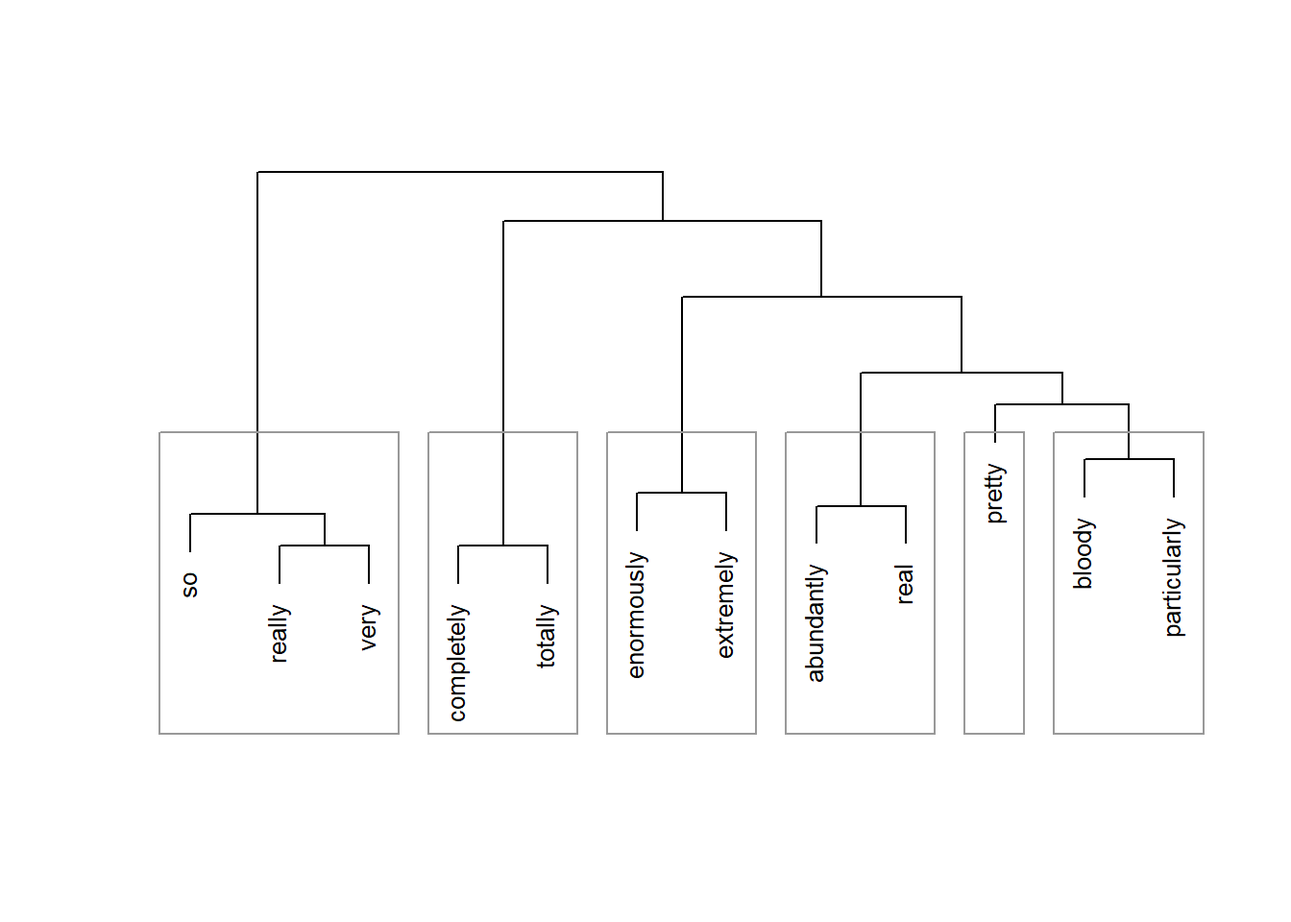
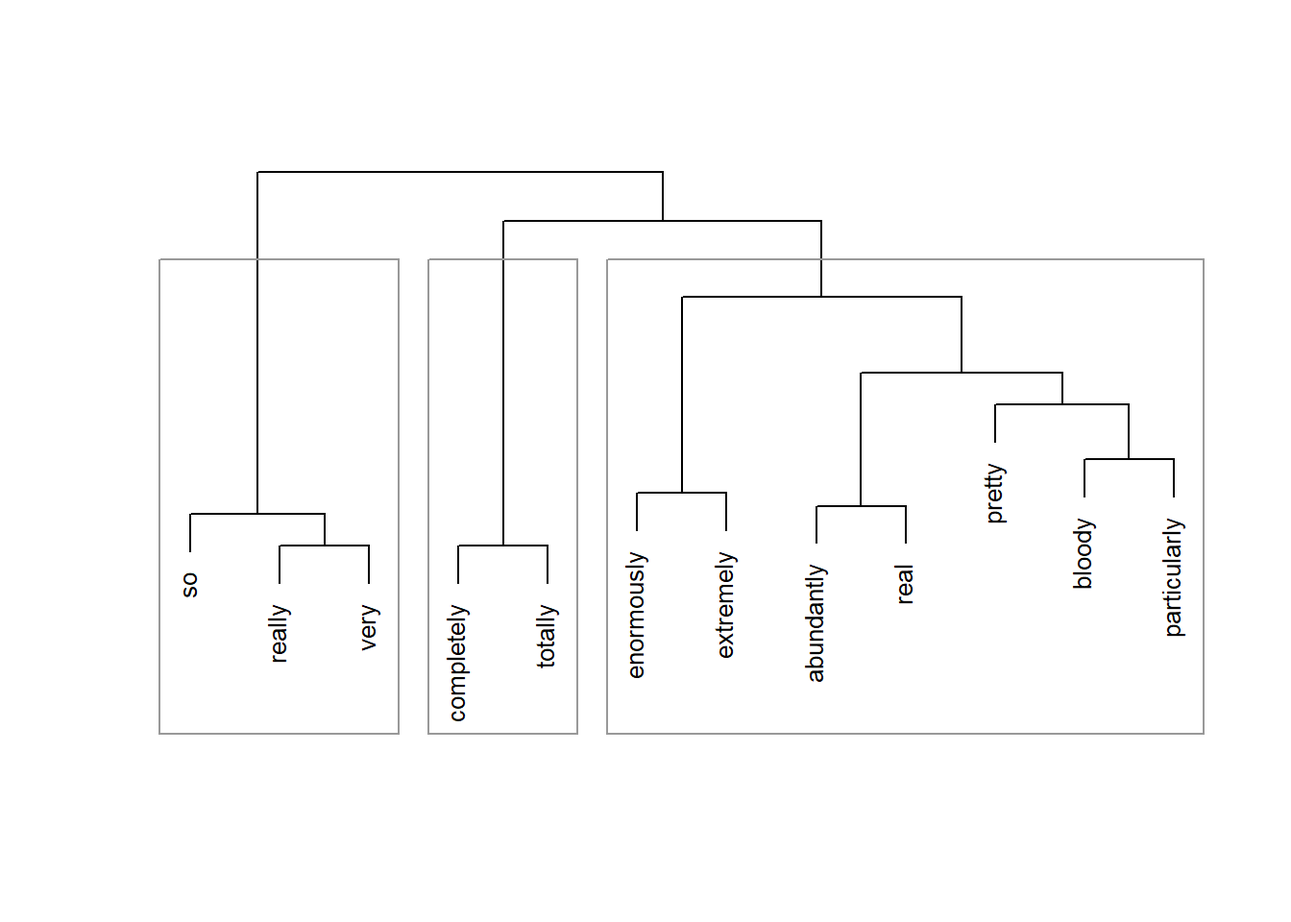
svm update

Changed region(s): [[0.7188, 0.4688, 0.75, 0.5]]

diff --git a/docs/svm.html b/docs/svm.html
@@ -450,12 +450,13 @@ div.tocify {
 <p><img src="https://slcladal.github.io/images/uq1.jpg" width="100%" /></p>
 <div id="introduction" class="section level1 unnumbered">
 <h1 class="unnumbered">Introduction</h1>
-<p>This tutorial introduces Semantic Vector Space (SVM) modeling R.
-Semantic vector space models, also known as distributional semantic
-models, are a type of machine learning model that represent the meaning
-of words or phrases as high-dimensional vectors in a mathematical space.
-These models are designed to capture the semantic relationships between
-words based on the distribution of their occurrences in large text
+<p>This tutorial introduces Semantic Vector Space (SVM) modeling R.<a
+href="#fn1" class="footnote-ref" id="fnref1"><sup>1</sup></a> Semantic
+vector space models, also known as distributional semantic models, are a
+type of machine learning model that represent the meaning of words or
+phrases as high-dimensional vectors in a mathematical space. These
+models are designed to capture the semantic relationships between words
+based on the distribution of their occurrences in large text
 corpora.</p>
 <p>In semantic vector space models, words or phrases are represented as
 vectors in a high-dimensional space, where the distance between two
@@ -591,7 +592,7 @@ library(flextable)
 # load data
 vsmdata &lt;- read.delim(&quot;https://slcladal.github.io/data/vsmdata.txt&quot;,
                       sep = &quot;\t&quot;, header = T)</code></pre>
-<template id="5813bf74-3f0a-494e-80d0-4bae9a351cfb"><style>
+<template id="4eb13f28-edf5-4a3d-a403-c2ed30ea5ef5"><style>
 .tabwid table{
   border-spacing:0px !important;
   border-collapse:collapse;
@@ -629,11 +630,11 @@ background-color: transparent;
 .katex-display {
     margin: 0 0 !important;
 }
-</style><div class="tabwid"><style>.cl-0a817b5c{table-layout:auto;width:75%;}.cl-0a74bc50{font-family:'Arial';font-size:12pt;font-weight:bold;font-style:normal;text-decoration:none;color:rgba(0, 0, 0, 1.00);background-color:transparent;}.cl-0a74bc5a{font-family:'Arial';font-size:12pt;font-weight:normal;font-style:normal;text-decoration:none;color:rgba(0, 0, 0, 1.00);background-color:transparent;}.cl-0a79b03e{margin:0;text-align:center;border-bottom: 0 solid rgba(0, 0, 0, 1.00);border-top: 0 solid rgba(0, 0, 0, 1.00);border-left: 0 solid rgba(0, 0, 0, 1.00);border-right: 0 solid rgba(0, 0, 0, 1.00);padding-bottom:5pt;padding-top:5pt;padding-left:5pt;padding-right:5pt;line-height: 1;background-color:transparent;}.cl-0a79d1b8{background-color:rgba(207, 207, 207, 1.00);vertical-align: middle;border-bottom: 1pt solid rgba(102, 102, 102, 1.00);border-top: 1pt solid rgba(102, 102, 102, 1.00);border-left: 1pt solid rgba(102, 102, 102, 1.00);border-right: 0 solid rgba(0, 0, 0, 1.00);margin-bottom:0;margin-top:0;margin-left:0;margin-right:0;}.cl-0a79d1c2{background-color:rgba(207, 207, 207, 1.00);vertical-align: middle;border-bottom: 1pt solid rgba(102, 102, 102, 1.00);border-top: 1pt solid rgba(102, 102, 102, 1.00);border-left: 0 solid rgba(0, 0, 0, 1.00);border-right: 1pt solid rgba(102, 102, 102, 1.00);margin-bottom:0;margin-top:0;margin-left:0;margin-right:0;}.cl-0a79d1c3{background-color:rgba(239, 239, 239, 1.00);vertical-align: middle;border-bottom: 0 solid rgba(0, 0, 0, 1.00);border-top: 0 solid rgba(0, 0, 0, 1.00);border-left: 1pt solid rgba(102, 102, 102, 1.00);border-right: 0 solid rgba(0, 0, 0, 1.00);margin-bottom:0;margin-top:0;margin-left:0;margin-right:0;}.cl-0a79d1cc{background-color:rgba(239, 239, 239, 1.00);vertical-align: middle;border-bottom: 0 solid rgba(0, 0, 0, 1.00);border-top: 0 solid rgba(0, 0, 0, 1.00);border-left: 0 solid rgba(0, 0, 0, 1.00);border-right: 1pt solid rgba(102, 102, 102, 1.00);margin-bottom:0;margin-top:0;margin-left:0;margin-right:0;}.cl-0a79d1cd{background-color:transparent;vertical-align: middle;border-bottom: 0 solid rgba(0, 0, 0, 1.00);border-top: 0 solid rgba(0, 0, 0, 1.00);border-left: 1pt solid rgba(102, 102, 102, 1.00);border-right: 0 solid rgba(0, 0, 0, 1.00);margin-bottom:0;margin-top:0;margin-left:0;margin-right:0;}.cl-0a79d1ce{background-color:transparent;vertical-align: middle;border-bottom: 0 solid rgba(0, 0, 0, 1.00);border-top: 0 solid rgba(0, 0, 0, 1.00);border-left: 0 solid rgba(0, 0, 0, 1.00);border-right: 1pt solid rgba(102, 102, 102, 1.00);margin-bottom:0;margin-top:0;margin-left:0;margin-right:0;}.cl-0a79d1d6{background-color:transparent;vertical-align: middle;border-bottom: 1pt solid rgba(102, 102, 102, 1.00);border-top: 0 solid rgba(0, 0, 0, 1.00);border-left: 1pt solid rgba(102, 102, 102, 1.00);border-right: 0 solid rgba(0, 0, 0, 1.00);margin-bottom:0;margin-top:0;margin-left:0;margin-right:0;}.cl-0a79d1d7{background-color:transparent;vertical-align: middle;border-bottom: 1pt solid rgba(102, 102, 102, 1.00);border-top: 0 solid rgba(0, 0, 0, 1.00);border-left: 0 solid rgba(0, 0, 0, 1.00);border-right: 1pt solid rgba(102, 102, 102, 1.00);margin-bottom:0;margin-top:0;margin-left:0;margin-right:0;}</style><table data-quarto-disable-processing='true' class='cl-0a817b5c'><thead><tr style="overflow-wrap:break-word;"><th class="cl-0a79d1b8"><p class="cl-0a79b03e"><span class="cl-0a74bc50">Amplifier</span></p></th><th class="cl-0a79d1c2"><p class="cl-0a79b03e"><span class="cl-0a74bc50">Adjective</span></p></th></tr></thead><tbody><tr style="overflow-wrap:break-word;"><td class="cl-0a79d1c3"><p class="cl-0a79b03e"><span class="cl-0a74bc5a">0</span></p></td><td class="cl-0a79d1cc"><p class="cl-0a79b03e"><span class="cl-0a74bc5a">serious</span></p></td></tr><tr style="overflow-wrap:break-word;"><td class="cl-0a79d1cd"><p class="cl-0a79b03e"><span class="cl-0a74bc5a">0</span></p></td><td class="cl-0a79d1ce"><p class="cl-0a79b03e"><span class="cl-0a74bc5a">sure</span></p></td></tr><tr style="overflow-wrap:break-word;"><td class="cl-0a79d1c3"><p class="cl-0a79b03e"><span class="cl-0a74bc5a">so</span></p></td><td class="cl-0a79d1cc"><p class="cl-0a79b03e"><span class="cl-0a74bc5a">many</span></p></td></tr><tr style="overflow-wrap:break-word;"><td class="cl-0a79d1cd"><p class="cl-0a79b03e"><span class="cl-0a74bc5a">0</span></p></td><td class="cl-0a79d1ce"><p class="cl-0a79b03e"><span class="cl-0a74bc5a">many</span></p></td></tr><tr style="overflow-wrap:break-word;"><td class="cl-0a79d1c3"><p class="cl-0a79b03e"><span class="cl-0a74bc5a">0</span></p></td><td class="cl-0a79d1cc"><p class="cl-0a79b03e"><span class="cl-0a74bc5a">good</span></p></td></tr><tr style="overflow-wrap:break-word;"><td class="cl-0a79d1cd"><p class="cl-0a79b03e"><span class="cl-0a74bc5a">0</span></p></td><td class="cl-0a79d1ce"><p class="cl-0a79b03e"><span class="cl-0a74bc5a">much</span></p></td></tr><tr style="overflow-wrap:break-word;"><td class="cl-0a79d1c3"><p class="cl-0a79b03e"><span class="cl-0a74bc5a">0</span></p></td><td class="cl-0a79d1cc"><p class="cl-0a79b03e"><span class="cl-0a74bc5a">good</span></p></td></tr><tr style="overflow-wrap:break-word;"><td class="cl-0a79d1cd"><p class="cl-0a79b03e"><span class="cl-0a74bc5a">0</span></p></td><td class="cl-0a79d1ce"><p class="cl-0a79b03e"><span class="cl-0a74bc5a">good</span></p></td></tr><tr style="overflow-wrap:break-word;"><td class="cl-0a79d1c3"><p class="cl-0a79b03e"><span class="cl-0a74bc5a">0</span></p></td><td class="cl-0a79d1cc"><p class="cl-0a79b03e"><span class="cl-0a74bc5a">last</span></p></td></tr><tr style="overflow-wrap:break-word;"><td class="cl-0a79d1d6"><p class="cl-0a79b03e"><span class="cl-0a74bc5a">0</span></p></td><td class="cl-0a79d1d7"><p class="cl-0a79b03e"><span class="cl-0a74bc5a">nice</span></p></td></tr></tbody></table></div></template>
-<div class="flextable-shadow-host" id="6eb7319b-02a6-43e4-a2e7-5c1891d9f2fe"></div>
+</style><div class="tabwid"><style>.cl-df718bcc{table-layout:auto;width:75%;}.cl-df64853a{font-family:'Arial';font-size:12pt;font-weight:bold;font-style:normal;text-decoration:none;color:rgba(0, 0, 0, 1.00);background-color:transparent;}.cl-df648544{font-family:'Arial';font-size:12pt;font-weight:normal;font-style:normal;text-decoration:none;color:rgba(0, 0, 0, 1.00);background-color:transparent;}.cl-df692c70{margin:0;text-align:center;border-bottom: 0 solid rgba(0, 0, 0, 1.00);border-top: 0 solid rgba(0, 0, 0, 1.00);border-left: 0 solid rgba(0, 0, 0, 1.00);border-right: 0 solid rgba(0, 0, 0, 1.00);padding-bottom:5pt;padding-top:5pt;padding-left:5pt;padding-right:5pt;line-height: 1;background-color:transparent;}.cl-df694d5e{background-color:rgba(207, 207, 207, 1.00);vertical-align: middle;border-bottom: 1pt solid rgba(102, 102, 102, 1.00);border-top: 1pt solid rgba(102, 102, 102, 1.00);border-left: 1pt solid rgba(102, 102, 102, 1.00);border-right: 0 solid rgba(0, 0, 0, 1.00);margin-bottom:0;margin-top:0;margin-left:0;margin-right:0;}.cl-df694d68{background-color:rgba(207, 207, 207, 1.00);vertical-align: middle;border-bottom: 1pt solid rgba(102, 102, 102, 1.00);border-top: 1pt solid rgba(102, 102, 102, 1.00);border-left: 0 solid rgba(0, 0, 0, 1.00);border-right: 1pt solid rgba(102, 102, 102, 1.00);margin-bottom:0;margin-top:0;margin-left:0;margin-right:0;}.cl-df694d72{background-color:rgba(239, 239, 239, 1.00);vertical-align: middle;border-bottom: 0 solid rgba(0, 0, 0, 1.00);border-top: 0 solid rgba(0, 0, 0, 1.00);border-left: 1pt solid rgba(102, 102, 102, 1.00);border-right: 0 solid rgba(0, 0, 0, 1.00);margin-bottom:0;margin-top:0;margin-left:0;margin-right:0;}.cl-df694d73{background-color:rgba(239, 239, 239, 1.00);vertical-align: middle;border-bottom: 0 solid rgba(0, 0, 0, 1.00);border-top: 0 solid rgba(0, 0, 0, 1.00);border-left: 0 solid rgba(0, 0, 0, 1.00);border-right: 1pt solid rgba(102, 102, 102, 1.00);margin-bottom:0;margin-top:0;margin-left:0;margin-right:0;}.cl-df694d74{background-color:transparent;vertical-align: middle;border-bottom: 0 solid rgba(0, 0, 0, 1.00);border-top: 0 solid rgba(0, 0, 0, 1.00);border-left: 1pt solid rgba(102, 102, 102, 1.00);border-right: 0 solid rgba(0, 0, 0, 1.00);margin-bottom:0;margin-top:0;margin-left:0;margin-right:0;}.cl-df694d75{background-color:transparent;vertical-align: middle;border-bottom: 0 solid rgba(0, 0, 0, 1.00);border-top: 0 solid rgba(0, 0, 0, 1.00);border-left: 0 solid rgba(0, 0, 0, 1.00);border-right: 1pt solid rgba(102, 102, 102, 1.00);margin-bottom:0;margin-top:0;margin-left:0;margin-right:0;}.cl-df694d7c{background-color:transparent;vertical-align: middle;border-bottom: 1pt solid rgba(102, 102, 102, 1.00);border-top: 0 solid rgba(0, 0, 0, 1.00);border-left: 1pt solid rgba(102, 102, 102, 1.00);border-right: 0 solid rgba(0, 0, 0, 1.00);margin-bottom:0;margin-top:0;margin-left:0;margin-right:0;}.cl-df694d7d{background-color:transparent;vertical-align: middle;border-bottom: 1pt solid rgba(102, 102, 102, 1.00);border-top: 0 solid rgba(0, 0, 0, 1.00);border-left: 0 solid rgba(0, 0, 0, 1.00);border-right: 1pt solid rgba(102, 102, 102, 1.00);margin-bottom:0;margin-top:0;margin-left:0;margin-right:0;}</style><table data-quarto-disable-processing='true' class='cl-df718bcc'><thead><tr style="overflow-wrap:break-word;"><th class="cl-df694d5e"><p class="cl-df692c70"><span class="cl-df64853a">Amplifier</span></p></th><th class="cl-df694d68"><p class="cl-df692c70"><span class="cl-df64853a">Adjective</span></p></th></tr></thead><tbody><tr style="overflow-wrap:break-word;"><td class="cl-df694d72"><p class="cl-df692c70"><span class="cl-df648544">0</span></p></td><td class="cl-df694d73"><p class="cl-df692c70"><span class="cl-df648544">serious</span></p></td></tr><tr style="overflow-wrap:break-word;"><td class="cl-df694d74"><p class="cl-df692c70"><span class="cl-df648544">0</span></p></td><td class="cl-df694d75"><p class="cl-df692c70"><span class="cl-df648544">sure</span></p></td></tr><tr style="overflow-wrap:break-word;"><td class="cl-df694d72"><p class="cl-df692c70"><span class="cl-df648544">so</span></p></td><td class="cl-df694d73"><p class="cl-df692c70"><span class="cl-df648544">many</span></p></td></tr><tr style="overflow-wrap:break-word;"><td class="cl-df694d74"><p class="cl-df692c70"><span class="cl-df648544">0</span></p></td><td class="cl-df694d75"><p class="cl-df692c70"><span class="cl-df648544">many</span></p></td></tr><tr style="overflow-wrap:break-word;"><td class="cl-df694d72"><p class="cl-df692c70"><span class="cl-df648544">0</span></p></td><td class="cl-df694d73"><p class="cl-df692c70"><span class="cl-df648544">good</span></p></td></tr><tr style="overflow-wrap:break-word;"><td class="cl-df694d74"><p class="cl-df692c70"><span class="cl-df648544">0</span></p></td><td class="cl-df694d75"><p class="cl-df692c70"><span class="cl-df648544">much</span></p></td></tr><tr style="overflow-wrap:break-word;"><td class="cl-df694d72"><p class="cl-df692c70"><span class="cl-df648544">0</span></p></td><td class="cl-df694d73"><p class="cl-df692c70"><span class="cl-df648544">good</span></p></td></tr><tr style="overflow-wrap:break-word;"><td class="cl-df694d74"><p class="cl-df692c70"><span class="cl-df648544">0</span></p></td><td class="cl-df694d75"><p class="cl-df692c70"><span class="cl-df648544">good</span></p></td></tr><tr style="overflow-wrap:break-word;"><td class="cl-df694d72"><p class="cl-df692c70"><span class="cl-df648544">0</span></p></td><td class="cl-df694d73"><p class="cl-df692c70"><span class="cl-df648544">last</span></p></td></tr><tr style="overflow-wrap:break-word;"><td class="cl-df694d7c"><p class="cl-df692c70"><span class="cl-df648544">0</span></p></td><td class="cl-df694d7d"><p class="cl-df692c70"><span class="cl-df648544">nice</span></p></td></tr></tbody></table></div></template>
+<div class="flextable-shadow-host" id="b89df935-f471-409c-9e68-bb9ffdf6d37b"></div>
 <script>
-var dest = document.getElementById("6eb7319b-02a6-43e4-a2e7-5c1891d9f2fe");
-var template = document.getElementById("5813bf74-3f0a-494e-80d0-4bae9a351cfb");
+var dest = document.getElementById("b89df935-f471-409c-9e68-bb9ffdf6d37b");
+var template = document.getElementById("4eb13f28-edf5-4a3d-a403-c2ed30ea5ef5");
 var fantome = dest.attachShadow({mode: 'open'});
 var templateContent = template.content;
 fantome.appendChild(templateContent);
@@ -656,7 +657,7 @@ vsmdata_simp &lt;- vsmdata %&gt;%
   dplyr::mutate(Adjective = ifelse(AdjFreq &gt; 10, Adjective, &quot;other&quot;)) %&gt;%
   dplyr::filter(Adjective != &quot;other&quot;) %&gt;%
   dplyr::select(-AdjFreq)</code></pre>
-<template id="ea97b912-a577-4081-8923-ce22fcaae88d"><style>
+<template id="021b1ca0-9bf6-4e43-a76f-e34c2600c8d8"><style>
 .tabwid table{
   border-spacing:0px !important;
   border-collapse:collapse;
@@ -694,11 +695,11 @@ background-color: transparent;
 .katex-display {
     margin: 0 0 !important;
 }
-</style><div class="tabwid"><style>.cl-0ab96c74{table-layout:auto;width:75%;}.cl-0aaaf27a{font-family:'Arial';font-size:12pt;font-weight:bold;font-style:normal;text-decoration:none;color:rgba(0, 0, 0, 1.00);background-color:transparent;}.cl-0aaaf284{font-family:'Arial';font-size:12pt;font-weight:normal;font-style:normal;text-decoration:none;color:rgba(0, 0, 0, 1.00);background-color:transparent;}.cl-0aafda1a{margin:0;text-align:center;border-bottom: 0 solid rgba(0, 0, 0, 1.00);border-top: 0 solid rgba(0, 0, 0, 1.00);border-left: 0 solid rgba(0, 0, 0, 1.00);border-right: 0 solid rgba(0, 0, 0, 1.00);padding-bottom:5pt;padding-top:5pt;padding-left:5pt;padding-right:5pt;line-height: 1;background-color:transparent;}.cl-0ab01070{background-color:rgba(207, 207, 207, 1.00);vertical-align: middle;border-bottom: 1pt solid rgba(102, 102, 102, 1.00);border-top: 1pt solid rgba(102, 102, 102, 1.00);border-left: 1pt solid rgba(102, 102, 102, 1.00);border-right: 0 solid rgba(0, 0, 0, 1.00);margin-bottom:0;margin-top:0;margin-left:0;margin-right:0;}.cl-0ab01084{background-color:rgba(207, 207, 207, 1.00);vertical-align: middle;border-bottom: 1pt solid rgba(102, 102, 102, 1.00);border-top: 1pt solid rgba(102, 102, 102, 1.00);border-left: 0 solid rgba(0, 0, 0, 1.00);border-right: 1pt solid rgba(102, 102, 102, 1.00);margin-bottom:0;margin-top:0;margin-left:0;margin-right:0;}.cl-0ab01085{background-color:rgba(239, 239, 239, 1.00);vertical-align: middle;border-bottom: 0 solid rgba(0, 0, 0, 1.00);border-top: 0 solid rgba(0, 0, 0, 1.00);border-left: 1pt solid rgba(102, 102, 102, 1.00);border-right: 0 solid rgba(0, 0, 0, 1.00);margin-bottom:0;margin-top:0;margin-left:0;margin-right:0;}.cl-0ab01086{background-color:rgba(239, 239, 239, 1.00);vertical-align: middle;border-bottom: 0 solid rgba(0, 0, 0, 1.00);border-top: 0 solid rgba(0, 0, 0, 1.00);border-left: 0 solid rgba(0, 0, 0, 1.00);border-right: 1pt solid rgba(102, 102, 102, 1.00);margin-bottom:0;margin-top:0;margin-left:0;margin-right:0;}.cl-0ab01087{background-color:transparent;vertical-align: middle;border-bottom: 0 solid rgba(0, 0, 0, 1.00);border-top: 0 solid rgba(0, 0, 0, 1.00);border-left: 1pt solid rgba(102, 102, 102, 1.00);border-right: 0 solid rgba(0, 0, 0, 1.00);margin-bottom:0;margin-top:0;margin-left:0;margin-right:0;}.cl-0ab0108e{background-color:transparent;vertical-align: middle;border-bottom: 0 solid rgba(0, 0, 0, 1.00);border-top: 0 solid rgba(0, 0, 0, 1.00);border-left: 0 solid rgba(0, 0, 0, 1.00);border-right: 1pt solid rgba(102, 102, 102, 1.00);margin-bottom:0;margin-top:0;margin-left:0;margin-right:0;}.cl-0ab0108f{background-color:transparent;vertical-align: middle;border-bottom: 1pt solid rgba(102, 102, 102, 1.00);border-top: 0 solid rgba(0, 0, 0, 1.00);border-left: 1pt solid rgba(102, 102, 102, 1.00);border-right: 0 solid rgba(0, 0, 0, 1.00);margin-bottom:0;margin-top:0;margin-left:0;margin-right:0;}.cl-0ab01090{background-color:transparent;vertical-align: middle;border-bottom: 1pt solid rgba(102, 102, 102, 1.00);border-top: 0 solid rgba(0, 0, 0, 1.00);border-left: 0 solid rgba(0, 0, 0, 1.00);border-right: 1pt solid rgba(102, 102, 102, 1.00);margin-bottom:0;margin-top:0;margin-left:0;margin-right:0;}</style><table data-quarto-disable-processing='true' class='cl-0ab96c74'><thead><tr style="overflow-wrap:break-word;"><th class="cl-0ab01070"><p class="cl-0aafda1a"><span class="cl-0aaaf27a">Amplifier</span></p></th><th class="cl-0ab01084"><p class="cl-0aafda1a"><span class="cl-0aaaf27a">Adjective</span></p></th></tr></thead><tbody><tr style="overflow-wrap:break-word;"><td class="cl-0ab01085"><p class="cl-0aafda1a"><span class="cl-0aaaf284">very</span></p></td><td class="cl-0ab01086"><p class="cl-0aafda1a"><span class="cl-0aaaf284">good</span></p></td></tr><tr style="overflow-wrap:break-word;"><td class="cl-0ab01087"><p class="cl-0aafda1a"><span class="cl-0aaaf284">really</span></p></td><td class="cl-0ab0108e"><p class="cl-0aafda1a"><span class="cl-0aaaf284">nice</span></p></td></tr><tr style="overflow-wrap:break-word;"><td class="cl-0ab01085"><p class="cl-0aafda1a"><span class="cl-0aaaf284">really</span></p></td><td class="cl-0ab01086"><p class="cl-0aafda1a"><span class="cl-0aaaf284">good</span></p></td></tr><tr style="overflow-wrap:break-word;"><td class="cl-0ab01087"><p class="cl-0aafda1a"><span class="cl-0aaaf284">really</span></p></td><td class="cl-0ab0108e"><p class="cl-0aafda1a"><span class="cl-0aaaf284">bad</span></p></td></tr><tr style="overflow-wrap:break-word;"><td class="cl-0ab01085"><p class="cl-0aafda1a"><span class="cl-0aaaf284">very</span></p></td><td class="cl-0ab01086"><p class="cl-0aafda1a"><span class="cl-0aaaf284">nice</span></p></td></tr><tr style="overflow-wrap:break-word;"><td class="cl-0ab01087"><p class="cl-0aafda1a"><span class="cl-0aaaf284">really</span></p></td><td class="cl-0ab0108e"><p class="cl-0aafda1a"><span class="cl-0aaaf284">nice</span></p></td></tr><tr style="overflow-wrap:break-word;"><td class="cl-0ab01085"><p class="cl-0aafda1a"><span class="cl-0aaaf284">very</span></p></td><td class="cl-0ab01086"><p class="cl-0aafda1a"><span class="cl-0aaaf284">hard</span></p></td></tr><tr style="overflow-wrap:break-word;"><td class="cl-0ab01087"><p class="cl-0aafda1a"><span class="cl-0aaaf284">bloody</span></p></td><td class="cl-0ab0108e"><p class="cl-0aafda1a"><span class="cl-0aaaf284">good</span></p></td></tr><tr style="overflow-wrap:break-word;"><td class="cl-0ab01085"><p class="cl-0aafda1a"><span class="cl-0aaaf284">really</span></p></td><td class="cl-0ab01086"><p class="cl-0aafda1a"><span class="cl-0aaaf284">nice</span></p></td></tr><tr style="overflow-wrap:break-word;"><td class="cl-0ab0108f"><p class="cl-0aafda1a"><span class="cl-0aaaf284">really</span></p></td><td class="cl-0ab01090"><p class="cl-0aafda1a"><span class="cl-0aaaf284">good</span></p></td></tr></tbody></table></div></template>
-<div class="flextable-shadow-host" id="9b4c7921-8ee2-42e5-85c7-9766c885ec6a"></div>
+</style><div class="tabwid"><style>.cl-dfa59980{table-layout:auto;width:75%;}.cl-df992100{font-family:'Arial';font-size:12pt;font-weight:bold;font-style:normal;text-decoration:none;color:rgba(0, 0, 0, 1.00);background-color:transparent;}.cl-df99210a{font-family:'Arial';font-size:12pt;font-weight:normal;font-style:normal;text-decoration:none;color:rgba(0, 0, 0, 1.00);background-color:transparent;}.cl-df9de488{margin:0;text-align:center;border-bottom: 0 solid rgba(0, 0, 0, 1.00);border-top: 0 solid rgba(0, 0, 0, 1.00);border-left: 0 solid rgba(0, 0, 0, 1.00);border-right: 0 solid rgba(0, 0, 0, 1.00);padding-bottom:5pt;padding-top:5pt;padding-left:5pt;padding-right:5pt;line-height: 1;background-color:transparent;}.cl-df9e0602{background-color:rgba(207, 207, 207, 1.00);vertical-align: middle;border-bottom: 1pt solid rgba(102, 102, 102, 1.00);border-top: 1pt solid rgba(102, 102, 102, 1.00);border-left: 1pt solid rgba(102, 102, 102, 1.00);border-right: 0 solid rgba(0, 0, 0, 1.00);margin-bottom:0;margin-top:0;margin-left:0;margin-right:0;}.cl-df9e0603{background-color:rgba(207, 207, 207, 1.00);vertical-align: middle;border-bottom: 1pt solid rgba(102, 102, 102, 1.00);border-top: 1pt solid rgba(102, 102, 102, 1.00);border-left: 0 solid rgba(0, 0, 0, 1.00);border-right: 1pt solid rgba(102, 102, 102, 1.00);margin-bottom:0;margin-top:0;margin-left:0;margin-right:0;}.cl-df9e060c{background-color:rgba(239, 239, 239, 1.00);vertical-align: middle;border-bottom: 0 solid rgba(0, 0, 0, 1.00);border-top: 0 solid rgba(0, 0, 0, 1.00);border-left: 1pt solid rgba(102, 102, 102, 1.00);border-right: 0 solid rgba(0, 0, 0, 1.00);margin-bottom:0;margin-top:0;margin-left:0;margin-right:0;}.cl-df9e060d{background-color:rgba(239, 239, 239, 1.00);vertical-align: middle;border-bottom: 0 solid rgba(0, 0, 0, 1.00);border-top: 0 solid rgba(0, 0, 0, 1.00);border-left: 0 solid rgba(0, 0, 0, 1.00);border-right: 1pt solid rgba(102, 102, 102, 1.00);margin-bottom:0;margin-top:0;margin-left:0;margin-right:0;}.cl-df9e060e{background-color:transparent;vertical-align: middle;border-bottom: 0 solid rgba(0, 0, 0, 1.00);border-top: 0 solid rgba(0, 0, 0, 1.00);border-left: 1pt solid rgba(102, 102, 102, 1.00);border-right: 0 solid rgba(0, 0, 0, 1.00);margin-bottom:0;margin-top:0;margin-left:0;margin-right:0;}.cl-df9e060f{background-color:transparent;vertical-align: middle;border-bottom: 0 solid rgba(0, 0, 0, 1.00);border-top: 0 solid rgba(0, 0, 0, 1.00);border-left: 0 solid rgba(0, 0, 0, 1.00);border-right: 1pt solid rgba(102, 102, 102, 1.00);margin-bottom:0;margin-top:0;margin-left:0;margin-right:0;}.cl-df9e0616{background-color:transparent;vertical-align: middle;border-bottom: 1pt solid rgba(102, 102, 102, 1.00);border-top: 0 solid rgba(0, 0, 0, 1.00);border-left: 1pt solid rgba(102, 102, 102, 1.00);border-right: 0 solid rgba(0, 0, 0, 1.00);margin-bottom:0;margin-top:0;margin-left:0;margin-right:0;}.cl-df9e0617{background-color:transparent;vertical-align: middle;border-bottom: 1pt solid rgba(102, 102, 102, 1.00);border-top: 0 solid rgba(0, 0, 0, 1.00);border-left: 0 solid rgba(0, 0, 0, 1.00);border-right: 1pt solid rgba(102, 102, 102, 1.00);margin-bottom:0;margin-top:0;margin-left:0;margin-right:0;}</style><table data-quarto-disable-processing='true' class='cl-dfa59980'><thead><tr style="overflow-wrap:break-word;"><th class="cl-df9e0602"><p class="cl-df9de488"><span class="cl-df992100">Amplifier</span></p></th><th class="cl-df9e0603"><p class="cl-df9de488"><span class="cl-df992100">Adjective</span></p></th></tr></thead><tbody><tr style="overflow-wrap:break-word;"><td class="cl-df9e060c"><p class="cl-df9de488"><span class="cl-df99210a">very</span></p></td><td class="cl-df9e060d"><p class="cl-df9de488"><span class="cl-df99210a">good</span></p></td></tr><tr style="overflow-wrap:break-word;"><td class="cl-df9e060e"><p class="cl-df9de488"><span class="cl-df99210a">really</span></p></td><td class="cl-df9e060f"><p class="cl-df9de488"><span class="cl-df99210a">nice</span></p></td></tr><tr style="overflow-wrap:break-word;"><td class="cl-df9e060c"><p class="cl-df9de488"><span class="cl-df99210a">really</span></p></td><td class="cl-df9e060d"><p class="cl-df9de488"><span class="cl-df99210a">good</span></p></td></tr><tr style="overflow-wrap:break-word;"><td class="cl-df9e060e"><p class="cl-df9de488"><span class="cl-df99210a">really</span></p></td><td class="cl-df9e060f"><p class="cl-df9de488"><span class="cl-df99210a">bad</span></p></td></tr><tr style="overflow-wrap:break-word;"><td class="cl-df9e060c"><p class="cl-df9de488"><span class="cl-df99210a">very</span></p></td><td class="cl-df9e060d"><p class="cl-df9de488"><span class="cl-df99210a">nice</span></p></td></tr><tr style="overflow-wrap:break-word;"><td class="cl-df9e060e"><p class="cl-df9de488"><span class="cl-df99210a">really</span></p></td><td class="cl-df9e060f"><p class="cl-df9de488"><span class="cl-df99210a">nice</span></p></td></tr><tr style="overflow-wrap:break-word;"><td class="cl-df9e060c"><p class="cl-df9de488"><span class="cl-df99210a">very</span></p></td><td class="cl-df9e060d"><p class="cl-df9de488"><span class="cl-df99210a">hard</span></p></td></tr><tr style="overflow-wrap:break-word;"><td class="cl-df9e060e"><p class="cl-df9de488"><span class="cl-df99210a">bloody</span></p></td><td class="cl-df9e060f"><p class="cl-df9de488"><span class="cl-df99210a">good</span></p></td></tr><tr style="overflow-wrap:break-word;"><td class="cl-df9e060c"><p class="cl-df9de488"><span class="cl-df99210a">really</span></p></td><td class="cl-df9e060d"><p class="cl-df9de488"><span class="cl-df99210a">nice</span></p></td></tr><tr style="overflow-wrap:break-word;"><td class="cl-df9e0616"><p class="cl-df9de488"><span class="cl-df99210a">really</span></p></td><td class="cl-df9e0617"><p class="cl-df9de488"><span class="cl-df99210a">good</span></p></td></tr></tbody></table></div></template>
+<div class="flextable-shadow-host" id="db3c5b5a-d5ca-4f2a-b9d3-66ca76ef3f7e"></div>
 <script>
-var dest = document.getElementById("9b4c7921-8ee2-42e5-85c7-9766c885ec6a");
-var template = document.getElementById("ea97b912-a577-4081-8923-ce22fcaae88d");
+var dest = document.getElementById("db3c5b5a-d5ca-4f2a-b9d3-66ca76ef3f7e");
+var template = document.getElementById("021b1ca0-9bf6-4e43-a76f-e34c2600c8d8");
 var fantome = dest.attachShadow({mode: 'open'});
 var templateContent = template.content;
 fantome.appendChild(templateContent);
@@ -794,9 +795,9 @@ to assume that the data is not homogeneous (this would occur if the
 optimal number of clusters were 1), and, secondly, we want check how
 many meaningful clusters there are in our data.</p>
 <pre class="r"><code># find optimal number of clusters
-asw &lt;- as.vector(unlist(sapply(2:nrow(tdm)-1, function(x) pam(clustd, k = x)$silinfo$avg.width)))
+asw &lt;- as.vector(unlist(sapply(2:ncol(tdm)-1, function(x) pam(clustd, k = x)$silinfo$avg.width)))
 # determine the optimal number of clusters (max width is optimal)
-optclust &lt;- which(asw == max(asw))+1 # optimal number of clusters
+optclust &lt;- which(asw == max(asw)) # optimal number of clusters
 # inspect clustering with optimal number of clusters
 amplifier.clusters &lt;- pam(clustd, optclust)
 # inspect cluster solution
@@ -804,7 +805,7 @@ amplifier.clusters$clustering</code></pre>
 <pre><code>##   abundantly       bloody   completely   enormously    extremely particularly 
 ##            1            1            2            3            3            3 
 ##       pretty         real       really           so      totally         very 
-##            4            1            4            4            2            4</code></pre>
+##            2            1            2            2            2            2</code></pre>
 <p>In a next step, we visualize the results of the semantic vector space
 model as a dendrogram.</p>
 <pre class="r"><code># create cluster object
@@ -812,7 +813,7 @@ cd &lt;- hclust(clustd, method=&quot;ward.D&quot;)
 # plot cluster object
 plot(cd, main = &quot;&quot;, sub = &quot;&quot;, yaxt = &quot;n&quot;, ylab = &quot;&quot;, xlab = &quot;&quot;, cex = .8)
 # add colored rectangles around clusters
-rect.hclust(cd, k = 6, border = &quot;gray60&quot;)</code></pre>
+rect.hclust(cd, k = optclust, border = &quot;gray60&quot;)</code></pre>
 <p><img src="svm_files/figure-html/vsm8-1.png" width="672" /></p>
 <p>The clustering solution shows that,</p>
 <ul>
@@ -820,25 +821,22 @@ rect.hclust(cd, k = 6, border = &quot;gray60&quot;)</code></pre>
 </li>
 <li><em>completely</em> and <em>totally</em><br />
 </li>
-<li><em>enourmously</em> and <em>extremely</em><br />
-</li>
-<li><em>abundantly</em> and <em>real</em><br />
-</li>
-<li><em>bloody</em> and <em>particularly</em><br />
-</li>
-<li><em>pretty</em> (by itself)</li>
+<li>all other amplifiers.</li>
 </ul>
 <p>form clusters and are thus more similar in their collocational
 profile to each other compared to amplifiers in different clusters.
 Also, this suggests that amplifiers in the same cluster are more
 interchangable compared with amplifiers in different clusters.</p>
-<p>The amplifiers <em>very</em>, <em>so</em>, and <em>really</em> form a
-cluster together probably due to the fact that <em>really</em>,
-<em>very</em>, and <em>so</em> are the most frequent “variants” and
-because they co-occur with the most variety of adjectives. The results
-can be interpreted to suggest that <em>really</em>, <em>so</em>, and
-<em>very</em> are “default” amplifiers that lack distinct semantic
-profiles.</p>
+<p>It is important to note though that the data set is of rather
+moderate size which means that differences are unlikely to be detected
+due to the relative rarity of the amplifier (which is the reason why
+there is one umbrella cluster). Also, the amplifiers <em>very</em>,
+<em>so</em>, and <em>really</em> form a cluster together probably due to
+the fact that <em>really</em>, <em>very</em>, and <em>so</em> are the
+most frequent “variants” and because they co-occur with the most variety
+of adjectives. The results can be interpreted to suggest that
+<em>really</em>, <em>so</em>, and <em>very</em> are “default” amplifiers
+that lack distinct semantic profiles.</p>
 <p>There are many more useful methods for classifying and grouping data
 and the <a
 href="https://gederajeg.github.io/vector_space_model_indonesian/">tutorial
@@ -928,6 +926,14 @@ Fast Covariance, Correlation, and CosineSimilarity Operations</em>. <a
 href="https://CRAN.R-project.org/package=coop">https://CRAN.R-project.org/package=coop</a>.
 </div>
 </div>
+</div>
+<div class="footnotes footnotes-end-of-document">
+<hr />
+<ol>
+<li id="fn1"><p>I am indebted to Paul Warren who kindly pointed out some
+errors in a previous version of this tutorial.<a href="#fnref1"
+class="footnote-back">↩</a></p></li>
+</ol>
 </div>
 
 
